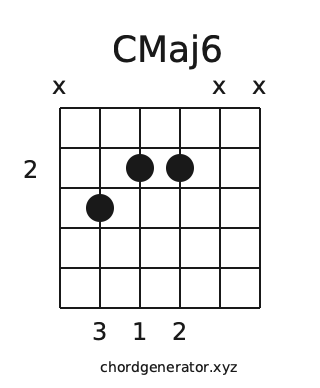
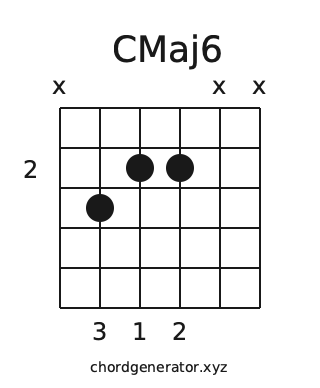
Centre footer

Changed region(s): [[0.2812, 0.9278, 0.75, 0.9897]]

diff --git a/src/lib.rs b/src/lib.rs
@@ -181,7 +181,7 @@ pub fn render(chord_settings: Chord, output_dir: &str) -> Result<(), cairo::IoEr
         .expect("Can't write title");
 
     // footer watermark
-    context.move_to(margin * 2. + string_space, height - 16.);
+    context.move_to(margin * 2. + string_space - 10., height - 16.);
     context.select_font_face("DejaVuSans", FontSlant::Normal, FontWeight::Normal);
     context.set_font_size(14.);
     context
